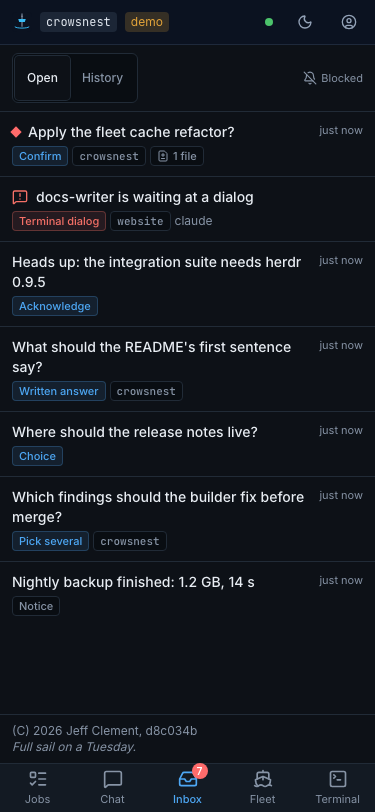
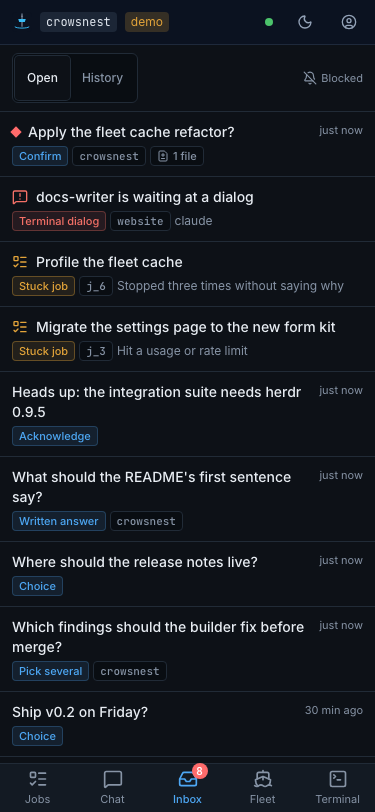
M7: Jobs screenshots in --demo (board, new-job form, running, stuck and done jobs at 375 and 1440), mise run screenshots:jobs, demo question for the needs-you job, Inbox screenshots refreshed

diff --git a/web/e2e/jobs.spec.ts b/web/e2e/jobs.spec.ts
@@ -1,0 +1,115 @@
+// The Jobs view against `crowsnest --demo`: the board (needs-you and stuck first, then running,
+// then finished today), the new-job form open, and a job's detail (one running, one stuck on a
+// limit with its retry countdown) at phone and desktop sizes; plus the 375 px rules (no sideways
+// scroll, 44 px targets). Run with `mise run screenshots:jobs`.
+//
+// Demo job ids, in seed order: j_1 running (worktree), j_2 nudged, j_3 stuck on a limit, j_4
+// needs you (a question), j_5 needs you (a dialog), j_6 unresponsive, j_7 blocked, j_8 done,
+// j_9 failed (older), j_10 queued for the orchestrator.
+import { expect, test, type Page } from "@playwright/test";
+
+const sizes = [
+  { name: "375x812", width: 375, height: 812 },
+  { name: "1440x900", width: 1440, height: 900 },
+] as const;
+
+async function openJobs(page: Page, theme: "light" | "dark", search = "") {
+  await page.addInitScript((value) => localStorage.setItem("crowsnest-theme", value), theme);
+  await page.goto(`/${search}`);
+  await expect(page.getByRole("region", { name: "Needs you or stuck" })).toBeVisible();
+  await page.evaluate(() => document.fonts.ready);
+}
+
+async function noSidewaysScroll(page: Page) {
+  const overflow = await page.evaluate(() => document.documentElement.scrollWidth - document.documentElement.clientWidth);
+  expect(overflow).toBeLessThanOrEqual(0);
+}
+
+const shot = (page: Page, name: string) => page.screenshot({ path: `screenshots/${name}.png`, animations: "disabled", caret: "hide" });
+
+for (const theme of ["light", "dark"] as const) {
+  for (const size of sizes) {
+    test(`board at ${size.name} (${theme})`, async ({ page }) => {
+      await page.setViewportSize({ width: size.width, height: size.height });
+      await openJobs(page, theme);
+      const attention = page.getByRole("region", { name: "Needs you or stuck" });
+      await expect(attention.getByRole("button").first()).toContainText("Decide the release date");
+      await expect(attention.getByText("Retry in", { exact: false })).toBeVisible();
+      await expect(page.getByRole("region", { name: "In progress" }).getByText("2 nudges")).toBeVisible();
+      await expect(page.getByRole("region", { name: "Finished today" })).toBeVisible();
+      await expect(page.getByRole("button", { name: /Show 1 older/ })).toBeVisible();
+      if (size.width < 768) await noSidewaysScroll(page);
+      await shot(page, `jobs-board-${size.name}-${theme}`);
+    });
+  }
+}
+
+for (const size of sizes) {
+  test(`new-job form open at ${size.name}`, async ({ page }) => {
+    await page.setViewportSize({ width: size.width, height: size.height });
+    await openJobs(page, "light");
+    await page.getByLabel("What needs doing?").fill("Add a health check to the webhook sender\n\nIt should report the last delivery and the queue depth.");
+    await page.getByRole("button", { name: /To the orchestrator/ }).click();
+    await page.getByLabel(/Where/).fill("~/src/crowsnest");
+    await page.getByLabel("Done when").fill("tests pass and the README documents the endpoint");
+    await expect(page.getByLabel("Role")).toBeVisible();
+    if (size.width < 768) await noSidewaysScroll(page);
+    await shot(page, `jobs-new-${size.name}-light`);
+  });
+
+  test(`running job at ${size.name}`, async ({ page }) => {
+    await page.setViewportSize({ width: size.width, height: size.height });
+    await openJobs(page, "light", "?job=j_1");
+    const detail = size.width < 768 ? page.getByRole("dialog") : page.getByRole("region", { name: "Selected job" });
+    await expect(detail.getByRole("heading", { name: "Add retry back-off to the webhook sender" })).toBeVisible();
+    await expect(detail.getByRole("list", { name: "Timeline" })).toBeVisible();
+    await expect(detail.getByText("Doing now:")).toBeVisible();
+    if (size.width < 768) await noSidewaysScroll(page);
+    await shot(page, `jobs-detail-running-${size.name}-light`);
+  });
+
+  test(`stuck job at ${size.name}`, async ({ page }) => {
+    await page.setViewportSize({ width: size.width, height: size.height });
+    await openJobs(page, "light", "?job=j_3");
+    const detail = size.width < 768 ? page.getByRole("dialog") : page.getByRole("region", { name: "Selected job" });
+    const banner = detail.getByRole("alert");
+    await expect(banner).toContainText("Hit a usage or rate limit");
+    await expect(banner).toContainText("Retry in");
+    await expect(banner.getByRole("button", { name: "Retry now" })).toBeVisible();
+    if (size.width < 768) await noSidewaysScroll(page);
+    await shot(page, `jobs-detail-stuck-${size.name}-light`);
+  });
+}
+
+test("a finished job shows its result and evidence", async ({ page }) => {
+  await page.setViewportSize({ width: 1440, height: 900 });
+  await openJobs(page, "dark", "?job=j_8");
+  const detail = page.getByRole("region", { name: "Selected job" });
+  await expect(detail.getByRole("region", { name: "Verified", exact: true })).toContainText("mise run check: green");
+  await expect(detail.getByRole("region", { name: "Not verified" })).toContainText("Safari");
+  await shot(page, "jobs-detail-done-1440x900-dark");
+});
+
+test("tap targets on the Jobs view are at least 44 px on a phone", async ({ page }) => {
+  await page.setViewportSize({ width: 375, height: 812 });
+  await openJobs(page, "light");
+  await page.getByRole("button", { name: /To the orchestrator/ }).click();
+  const small = await page.evaluate(() =>
+    [...document.querySelectorAll<HTMLElement>("main button, main textarea, main input, main select")]
+      .filter((element) => {
+        const box = element.getBoundingClientRect();
+        return box.width > 0 && box.height > 0 && (box.width < 43.5 || box.height < 43.5);
+      })
+      .map((element) => element.getAttribute("aria-label") ?? element.textContent?.trim() ?? element.tagName),
+  );
+  expect(small).toEqual([]);
+});
+
+test("giving a job adds it to the board", async ({ page }) => {
+  await page.setViewportSize({ width: 1440, height: 900 });
+  await openJobs(page, "light");
+  await page.getByLabel("What needs doing?").fill("Summarise yesterday's merged PRs");
+  await page.getByRole("button", { name: "Give job" }).click();
+  await expect(page.getByRole("region", { name: "Selected job" }).getByRole("heading", { name: "Summarise yesterday's merged PRs" })).toBeVisible();
+  await expect(page).toHaveURL(/job=j_11/);
+});

diff --git a/web/playwright.jobs.config.ts b/web/playwright.jobs.config.ts
@@ -1,0 +1,26 @@
+// Playwright configuration for the Jobs screenshots (M7): photographed against the real binary in
+// --demo mode, whose board is seeded with a job in every state (one nudged, one stuck on a limit
+// with a retry countdown, one waiting on a question). Needs `mise run build` first (the
+// screenshots:jobs task does that). Data and state go to a throwaway directory.
+import { defineConfig, devices } from "@playwright/test";
+
+const PORT = Number(process.env.CROWSNEST_E2E_JOBS_PORT ?? 27695);
+
+export default defineConfig({
+  testDir: "./e2e",
+  testMatch: "jobs.spec.ts",
+  fullyParallel: false,
+  workers: 1,
+  forbidOnly: !!process.env.CI,
+  reporter: [["list"]],
+  use: { baseURL: `http://localhost:${PORT}`, trace: "retain-on-failure" },
+  projects: [{ name: "chromium", use: { ...devices["Desktop Chrome"] } }],
+  webServer: {
+    command: `tmp=$(mktemp -d) && CROWSNEST_DATA_DIR=$tmp/data XDG_STATE_HOME=$tmp/state exec ../bin/crowsnest serve --demo --no-auth --port ${PORT}`,
+    url: `http://localhost:${PORT}/api/v1/health`,
+    reuseExistingServer: false,
+    timeout: 30_000,
+    stdout: "ignore",
+    stderr: "ignore",
+  },
+});

diff --git a/web/src/lib/jobs.ts b/web/src/lib/jobs.ts
@@ -157,7 +157,7 @@ export type BoardSection = "attention" | "running" | "today" | "older";
 
 export const sectionLabels: Record<BoardSection, string> = {
   attention: "Needs you or stuck",
-  running: "Running",
+  running: "In progress",
   today: "Finished today",
   older: "Older",
 };

diff --git a/internal/jobs/demo.go b/internal/jobs/demo.go
@@ -53,6 +53,11 @@ func SeedDemo(ctx context.Context, s *Service, panes DemoPanes) error {
 			}
 		}
 		ids[item.record.AgentName] = FormatID(id)
+		if item.record.State == string(StateNeedsYou) && Cause(item.record.Cause) == CauseQuestions {
+			if err := seedDemoQuestion(ctx, s, FormatID(id), item.record.PaneID); err != nil {
+				return err
+			}
+		}
 	}
 	go runDemo(ctx, s, ids, s.opts.Logger)
 	return nil
@@ -80,9 +85,11 @@ func demoJobs(now time.Time, panes DemoPanes) []demoJob {
 
 	needsYou := base("Decide the release date for v0.2", "Draft the v0.2 release notes and pick a date.", "lead", "", string(StateNeedsYou), panes.Orchestrator, OrchestratorName, 90*time.Minute)
 	needsYou.Cause, needsYou.CauseDetail, needsYou.Waiting, needsYou.Progress = string(CauseQuestions), "1 open question", true, "Waiting on the release date"
+	needsYou.LastActivityAt = ago(29 * time.Minute)
 
 	dialog := base("Review the auth change", "Review the auth change on branch fix/limiter.", "reviewer", "~/src/crowsnest", string(StateNeedsYou), panes.Reviewer, "job-5", 12*time.Minute)
 	dialog.Cause, dialog.CauseDetail = string(CauseDialog), "Claude wants to run: rm -rf node_modules"
+	dialog.LastActivityAt = ago(2 * time.Minute)
 
 	unresponsive := base("Profile the fleet cache", "Profile the fleet cache under 200 panes.", "tester", "~/src/crowsnest", string(StateRunning), "", "job-6", 3*time.Hour)
 	unresponsive.Stuck, unresponsive.Cause, unresponsive.Nudges, unresponsive.NudgeStreak = true, string(CauseUnresponsive), 3, 3
@@ -114,6 +121,18 @@ func demoJobs(now time.Time, panes DemoPanes) []demoJob {
 		{record: failed, events: []demoEvent{{6 * time.Hour, EventCreated, "Job created"}, {5 * time.Hour, EventFail, "Failed: Bubble Tea v2 is not released yet"}}},
 		{record: queued, events: []demoEvent{{2 * time.Minute, EventCreated, "Job created"}}},
 	}
+}
+
+// seedDemoQuestion gives the demo's needs-you job the open question it is waiting on.
+func seedDemoQuestion(ctx context.Context, s *Service, jobID, paneID string) error {
+	now := s.opts.Now()
+	options, _ := json.Marshal([]map[string]string{{"key": "fri", "label": "Friday"}, {"key": "mon", "label": "Next Monday"}})
+	_, err := s.opts.Store.InsertQuestion(ctx, store.QuestionRecord{
+		Title: "Ship v0.2 on Friday?", BodyMD: "The release notes are drafted. Friday gives a quiet weekend to watch it; Monday gives the docs another pass.",
+		Kind: "choice", Options: options, Recommend: "fri", Urgency: "normal", SourcePane: paneID, JobID: jobID,
+		CreatedAt: now.Add(-30 * time.Minute), ExpiresAt: now.Add(24 * time.Hour),
+	})
+	return err
 }
 
 var demoProgress = []string{"Writing table tests for the back-off schedule", "Running the webhook tests", "Fixing the jitter bound", "Committing on job/1-add-retry-back-off"}
